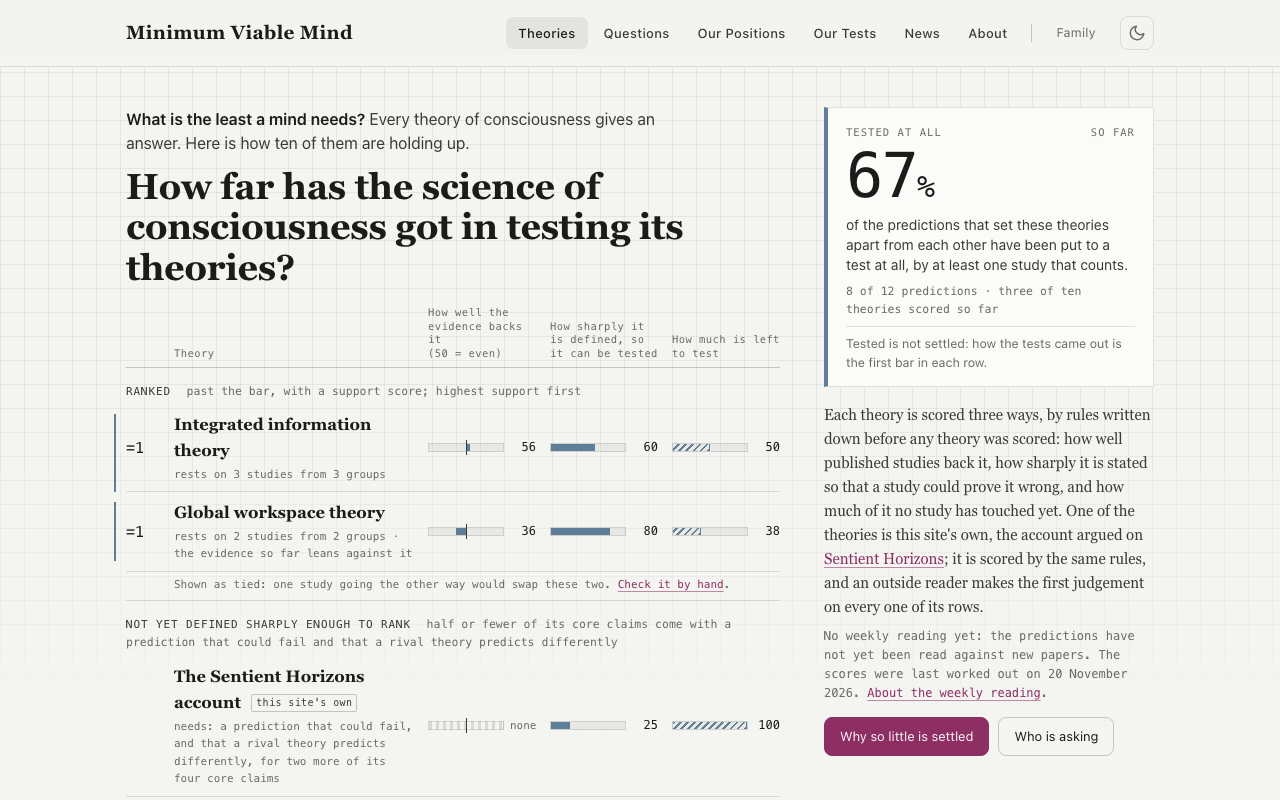
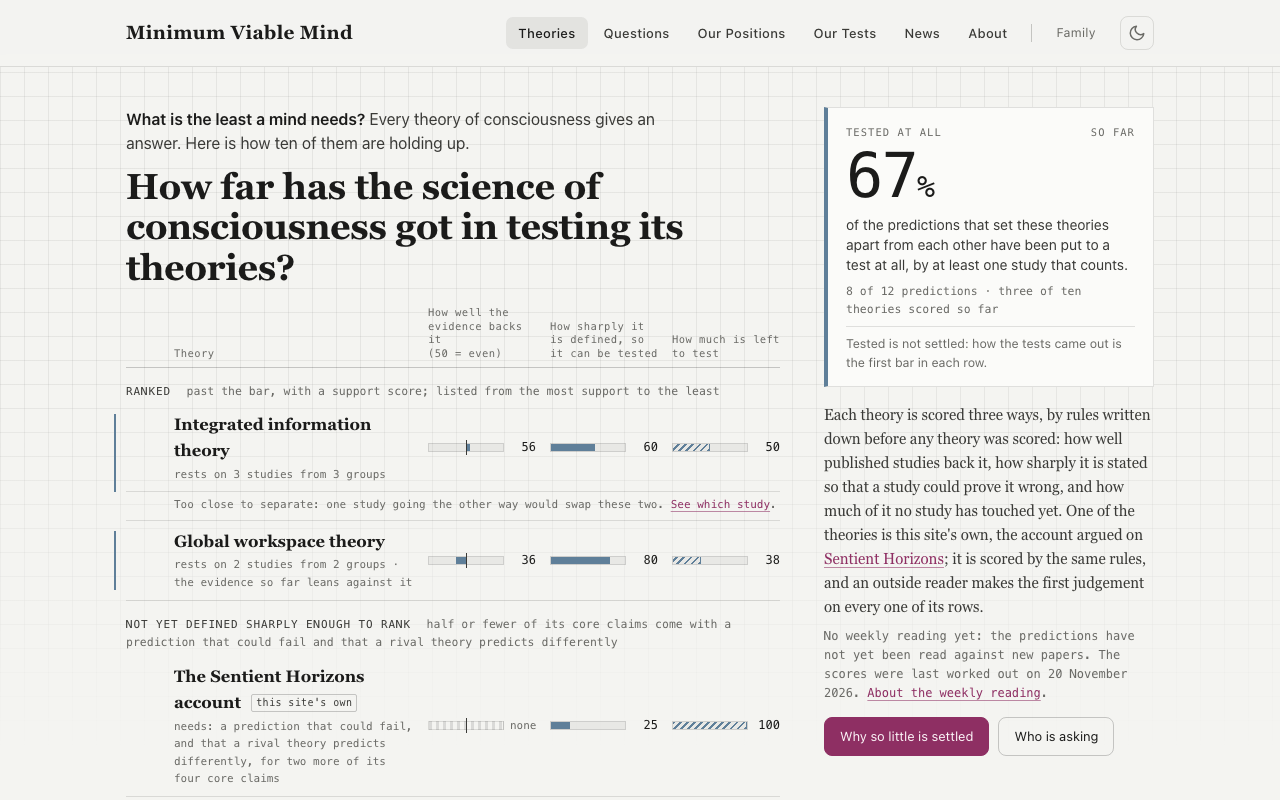
2026-11-21: ties shown as pairs only, no rank numbers (John: 'Yes, pairs only')
The ranked group lists theories by support with no rank numbers; between two
neighbours that reversing one study could swap, a line says they are too
close to separate. The pairs are the scoring script's own output
(shared_because_one_study_could_swap_them), passed through as
groups.close_pairs. Theory pages' tie notes and About updated; screenshot 01
retaken. Wording draft.

Changed region(s): [[0.125, 0.625, 0.5938, 0.75], [0.3438, 0.4688, 0.5625, 0.5]]

diff --git a/site/src/lib/tracker.ts b/site/src/lib/tracker.ts
@@ -53,7 +53,10 @@ export interface OpenQuestion { id: string; title: string; plain: string; bears_
 export interface Tracker {
   rules: Record<string, number>; probe_weight: number;
   listed: { id: string; name: string; scored: boolean }[]; listed_count: number; scored_count: number;
-  groups: { ranked: { theory: string; rank: number }[]; testable: string[]; not_sharp: string[]; not_scored: string[] };
+  groups: {
+    ranked: { theory: string; rank: number }[]; testable: string[]; not_sharp: string[]; not_scored: string[];
+    close_pairs: { a: string; b: string; study: string; study_name: string }[];
+  };
   theories: Record<string, Theory>; predictions: Record<string, Prediction>;
   studies: Record<string, { id: string; name: string; group: string; opened: boolean; url: string | null; found_through_contrast: boolean }>;
   studies_count: number; contrast_count: number; judgement_count: number; judgement_status: Record<string, number>;
@@ -85,7 +88,7 @@ export const OUTCOME_LABEL: Record<string, string> = { 'for': 'for', 'against': 
 
 // The ranking's three ruled groups, in order (kickoff section 4, ranking rule 1).
 export const GROUPS = [
-  { key: 'ranked', title: 'Ranked', note: 'past the bar, with a support score; highest support first' },
+  { key: 'ranked', title: 'Ranked', note: 'past the bar, with a support score; listed from the most support to the least' },
   { key: 'testable', title: 'Testable, too little tested to rank', note: 'no studies yet from two separate groups' },
   { key: 'not_sharp', title: 'Not yet defined sharply enough to rank', note: 'half or fewer of its core claims come with a prediction that could fail and that a rival theory predicts differently' },
 ] as const;

diff --git a/scripts/export_tracker.py b/scripts/export_tracker.py
@@ -352,6 +352,11 @@ def main(argv=None) -> int:
         "testable": ranking["testable_too_little_tested"],
         "not_sharp": ranking["not_yet_defined_sharply_enough"],
         "not_scored": [t for t in listed["ids"] if t not in base],
+        # Ruled by John on 2026-11-21 ("Yes, pairs only"): the ranked group shows no rank numbers;
+        # two neighbours that reversing one study could swap are said, in words, to be too close
+        # to separate. The pairs are the scoring script's own output, never recomputed here.
+        "close_pairs": [{"a": k.split("|")[0], "b": k.split("|")[1], "study": by, "study_name": studies[by]["name"]}
+                        for k, by in ranking["shared_because_one_study_could_swap_them"].items()],
     }
     dates = [r.get("date") for j in d["judgements"] for r in j.get("reading", []) if r.get("date")]
     dates += [j["ruling"].get("date") for j in d["judgements"] if j.get("ruling") and j["ruling"].get("date")]
